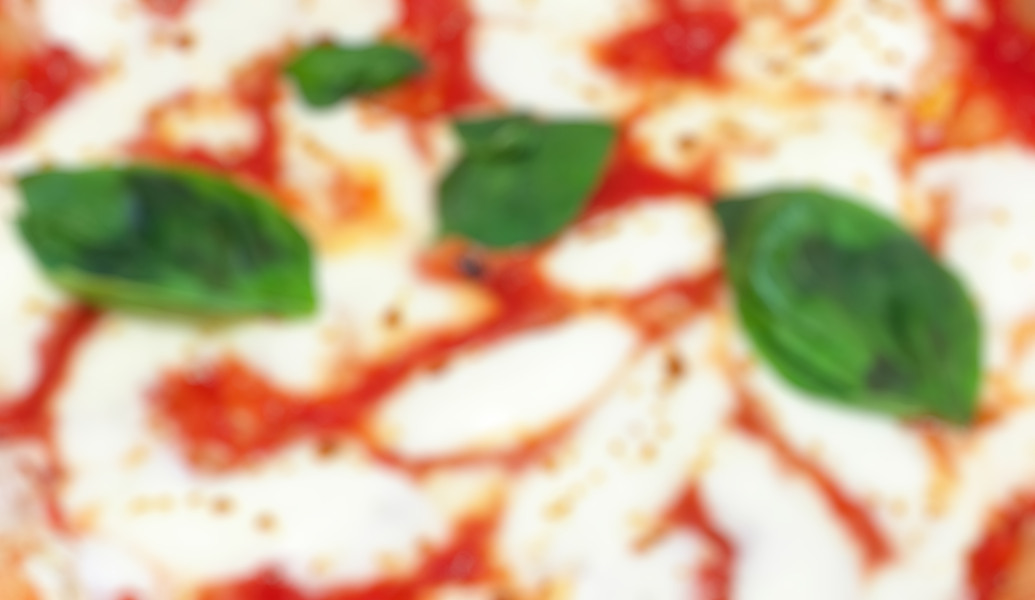
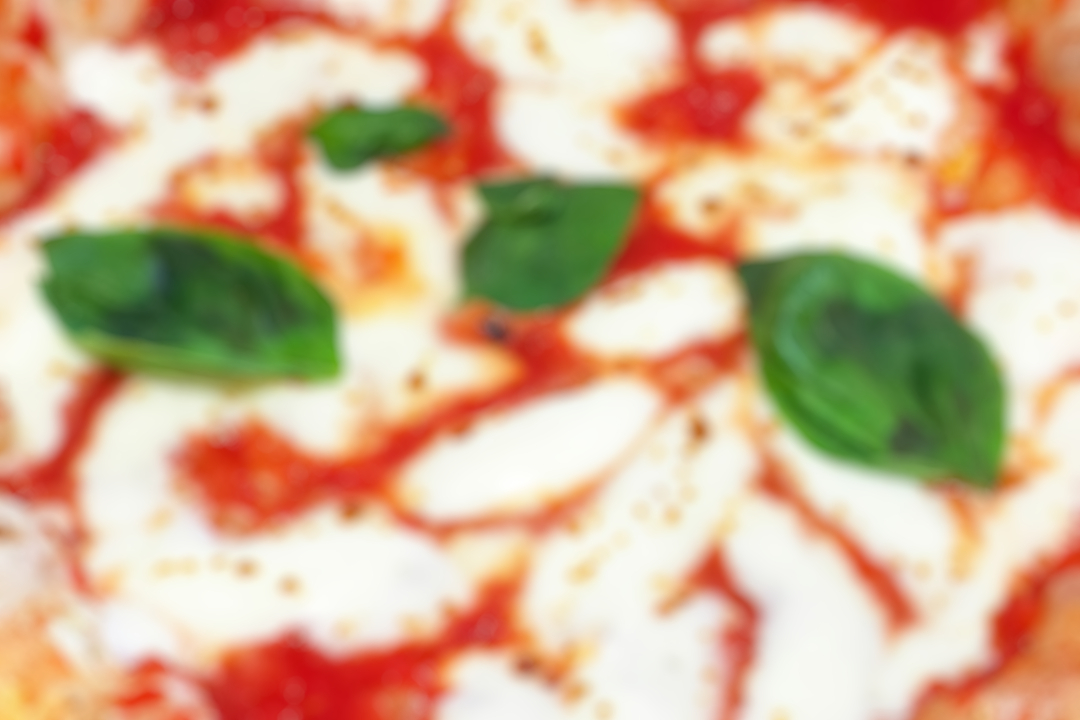
new Background

diff --git a/src/app/frontend/window/MainMenu2.java b/src/app/frontend/window/MainMenu2.java
@@ -3,6 +3,7 @@ package app.frontend.window;
 import java.awt.BorderLayout;
 import java.awt.Component;
 import java.awt.Font;
+import java.awt.event.ActionEvent;
 
 import javax.swing.BoxLayout;
 import javax.swing.JButton;
@@ -13,63 +14,105 @@ import javax.swing.SpringLayout;
 import app.frontend.components.BackgroundPanel;
 
 public class MainMenu2 extends StandardFrame {
-	private JLabel titleLabel;
+    private JLabel titleLabel;
+    private JButton chefButton;
+    private JButton cookButton;
+    private JButton cashButton;
+    private JButton waiterButton;
 
-	public MainMenu2() {
-		super("Main Menù");
-		getContentPane().setLayout(new BorderLayout(0, 0));
+    private int space = getContentPane().getWidth() / 25;
 
-		titleLabel = new JLabel("PIPPO PIZZA");
-		titleLabel.setFont(new Font("Maku", Font.BOLD | Font.ITALIC, 24));
-		titleLabel.setAlignmentX(Component.CENTER_ALIGNMENT);
-		BackgroundPanel backgroundPanel = new BackgroundPanel();
-		backgroundPanel.setLayout(new BoxLayout(backgroundPanel, BoxLayout.Y_AXIS));
+    public MainMenu2() {
+        super("Main Menù");
+        getContentPane().setLayout(new BorderLayout(0, 0));
 
-		getContentPane().add(backgroundPanel);
+        titleLabel = new JLabel("PIPPO PIZZA");
+        titleLabel.setFont(new Font("Maku", Font.BOLD | Font.ITALIC, space));
+        titleLabel.setAlignmentX(Component.CENTER_ALIGNMENT);
+        BackgroundPanel backgroundPanel = new BackgroundPanel();
+        backgroundPanel.setLayout(new BoxLayout(backgroundPanel, BoxLayout.Y_AXIS));
 
-		JPanel topPanel = new JPanel();
-		topPanel.setOpaque(false);
-		backgroundPanel.add(topPanel);
-		System.out.println(titleLabel.getHeight());
-		SpringLayout sl_topPanel = new SpringLayout();
-		topPanel.setLayout(sl_topPanel);
+        getContentPane().add(backgroundPanel);
 
-		JButton chefButton = new JButton("Chef");
-		sl_topPanel.putConstraint(SpringLayout.WEST, chefButton, 10, SpringLayout.WEST, topPanel);
-		sl_topPanel.putConstraint(SpringLayout.SOUTH, chefButton, 165, SpringLayout.NORTH, topPanel);
-		sl_topPanel.putConstraint(SpringLayout.EAST, chefButton, 338, SpringLayout.WEST, topPanel);
+        JPanel topPanel = new JPanel();
+        topPanel.setOpaque(false);
+        backgroundPanel.add(topPanel);
+        System.out.println(titleLabel.getHeight());
+        SpringLayout sl_topPanel = new SpringLayout();
+        topPanel.setLayout(sl_topPanel);
 
-		topPanel.add(chefButton);
+        chefButton = new JButton("Chef");
+        chefButton.setToolTipText("Click here for create and modify the Menu");
+        chefButton.addActionListener(this::actionPerformed);
+        cookButton = new JButton("Cook");
+        chefButton.setToolTipText("Click here for check orders to prepare");
+        chefButton.addActionListener(this::actionPerformed);
 
-		JButton cookButton = new JButton("Cook");
-		sl_topPanel.putConstraint(SpringLayout.NORTH, chefButton, 0, SpringLayout.NORTH, cookButton);
-		sl_topPanel.putConstraint(SpringLayout.NORTH, cookButton, 10, SpringLayout.NORTH, topPanel);
-		sl_topPanel.putConstraint(SpringLayout.WEST, cookButton, 362, SpringLayout.WEST, topPanel);
-		sl_topPanel.putConstraint(SpringLayout.SOUTH, cookButton, 165, SpringLayout.NORTH, topPanel);
-		sl_topPanel.putConstraint(SpringLayout.EAST, cookButton, 690, SpringLayout.WEST, topPanel);
-		topPanel.add(cookButton);
+        sl_topPanel.putConstraint(SpringLayout.WEST, chefButton, space, SpringLayout.WEST, topPanel);
+        sl_topPanel.putConstraint(SpringLayout.EAST, chefButton, (-space - getContentPane().getWidth()) / 2, SpringLayout.EAST, topPanel);
+        sl_topPanel.putConstraint(SpringLayout.NORTH, chefButton, space, SpringLayout.NORTH, topPanel);
+        sl_topPanel.putConstraint(SpringLayout.SOUTH, chefButton, 0, SpringLayout.SOUTH, topPanel);
 
-		backgroundPanel.add(titleLabel);
+        sl_topPanel.putConstraint(SpringLayout.EAST, cookButton, -space, SpringLayout.EAST, topPanel);
+        sl_topPanel.putConstraint(SpringLayout.NORTH, cookButton, space, SpringLayout.NORTH, topPanel);
+        sl_topPanel.putConstraint(SpringLayout.WEST, cookButton, (space + getContentPane().getWidth()) / 2, SpringLayout.WEST, topPanel);
+        sl_topPanel.putConstraint(SpringLayout.SOUTH, cookButton, 0, SpringLayout.SOUTH, topPanel);
 
-		JPanel downPanel = new JPanel();
-		downPanel.setOpaque(false);
-		backgroundPanel.add(downPanel);
-		SpringLayout sl_downPanel = new SpringLayout();
-		downPanel.setLayout(sl_downPanel);
+        topPanel.add(cookButton);
+        topPanel.add(chefButton);
 
-		JButton waiterButton = new JButton("Waiter");
-		sl_downPanel.putConstraint(SpringLayout.NORTH, waiterButton, 0, SpringLayout.NORTH, downPanel);
-		sl_downPanel.putConstraint(SpringLayout.WEST, waiterButton, 10, SpringLayout.WEST, downPanel);
-		sl_downPanel.putConstraint(SpringLayout.SOUTH, waiterButton, -10, SpringLayout.SOUTH, downPanel);
-		sl_downPanel.putConstraint(SpringLayout.EAST, waiterButton, 338, SpringLayout.WEST, downPanel);
-		downPanel.add(waiterButton);
 
-		JButton cashButton = new JButton("Cash");
-		sl_downPanel.putConstraint(SpringLayout.NORTH, cashButton, 0, SpringLayout.NORTH, downPanel);
-		sl_downPanel.putConstraint(SpringLayout.WEST, cashButton, 362, SpringLayout.WEST, downPanel);
-		sl_downPanel.putConstraint(SpringLayout.SOUTH, cashButton, -10, SpringLayout.SOUTH, downPanel);
-		sl_downPanel.putConstraint(SpringLayout.EAST, cashButton, 690, SpringLayout.WEST, downPanel);
-		downPanel.add(cashButton);
+        backgroundPanel.add(titleLabel);
 
-	}
+        JPanel downPanel = new JPanel();
+        downPanel.setOpaque(false);
+        backgroundPanel.add(downPanel);
+        SpringLayout sl_downPanel = new SpringLayout();
+        downPanel.setLayout(sl_downPanel);
+
+        cashButton = new JButton("Cash");
+        cashButton.setToolTipText("Click here for generate receipts");
+        cashButton.addActionListener(this::actionPerformed);
+        waiterButton = new JButton("Waiter");
+        waiterButton.setToolTipText("Click here for take orders and check orders state");
+        waiterButton.addActionListener(this::actionPerformed);
+
+        sl_downPanel.putConstraint(SpringLayout.NORTH, waiterButton, 0, SpringLayout.NORTH, downPanel);
+        sl_downPanel.putConstraint(SpringLayout.WEST, waiterButton, space, SpringLayout.WEST, downPanel);
+        sl_downPanel.putConstraint(SpringLayout.EAST, waiterButton, (-space - getContentPane().getWidth()) / 2, SpringLayout.EAST, downPanel);
+        sl_downPanel.putConstraint(SpringLayout.SOUTH, waiterButton, -space, SpringLayout.SOUTH, downPanel);
+
+        sl_downPanel.putConstraint(SpringLayout.EAST, cashButton, -space, SpringLayout.EAST, downPanel);
+        sl_downPanel.putConstraint(SpringLayout.NORTH, cashButton, 0, SpringLayout.NORTH, downPanel);
+        sl_downPanel.putConstraint(SpringLayout.WEST, cashButton, (space + getContentPane().getWidth()) / 2, SpringLayout.WEST, downPanel);
+        sl_downPanel.putConstraint(SpringLayout.SOUTH, cashButton, -space, SpringLayout.SOUTH, downPanel);
+
+
+        downPanel.add(cashButton);
+        downPanel.add(waiterButton);
+
+    }
+
+    public void actionPerformed(ActionEvent e) {
+
+        if (e.getSource().equals(waiterButton)) {
+            new WaiterFrame();
+        }
+
+        if (e.getSource().equals(chefButton)) {
+            new ChefFrame();
+
+        }
+
+        if (e.getSource().equals(cookButton)) {
+            new CookFrame();
+        }
+
+        if (e.getSource().equals(cashButton)) {
+            new CashFrame();
+
+        }
+        dispose();
+
+    }
 }

diff --git a/src/app/frontend/window/StandardFrame.java b/src/app/frontend/window/StandardFrame.java
@@ -2,14 +2,17 @@ package app.frontend.window;
 
 import javax.swing.*;
 import java.awt.*;
+import java.awt.event.ActionEvent;
 
-public class StandardFrame extends JFrame {
-    private final int WIDTH = 700;
-    private final int HEIGHT = 400;
+public abstract class StandardFrame extends JFrame {
+    private final int WIDTH = 1080;
+    private final int HEIGHT = 720;
     final Dimension dimension = new Dimension(WIDTH, HEIGHT);
-    public StandardFrame(String title){
+
+    public StandardFrame(String title) {
         super(title);
-        setMinimumSize(dimension);
+        setSize(dimension);
+        setResizable(false);
         setLocationRelativeTo(null);
         setDefaultCloseOperation(JFrame.EXIT_ON_CLOSE);
         setVisible(true);

diff --git a/src/app/frontend/components/BackMenuButton.java b/src/app/frontend/components/BackMenuButton.java
@@ -1,6 +1,7 @@
 package app.frontend.components;
 
 import app.frontend.window.MainMenu;
+import app.frontend.window.MainMenu2;
 
 import javax.swing.*;
 import java.awt.*;
@@ -16,7 +17,7 @@ public class BackMenuButton extends JButton {
         addActionListener(new ActionListener() {
             @Override
             public void actionPerformed(ActionEvent e) {
-                MainMenu f = new MainMenu();
+                MainMenu2 f = new MainMenu2();
                 f.setVisible(true);
                 frame.dispose();
             }

diff --git a/src/app/frontend/components/BackgroundPanel.java b/src/app/frontend/components/BackgroundPanel.java
@@ -19,7 +19,7 @@ public class BackgroundPanel extends JPanel {
 
 	public BackgroundPanel() {
 		img = Toolkit.getDefaultToolkit()
-				.createImage("/Users/armandocoppola/Documents/restaurant_manager/src/sfondoMargherita.jpg");
+				.createImage("/Users/armandocoppola/Documents/restaurant_manager/src/sfondoMargheritaSfocata.jpg");
 		loadImage(img);
 	}
 

diff --git a/src/app/frontend/window/MainMenu.java b/src/app/frontend/window/MainMenu.java
@@ -12,7 +12,7 @@ import javax.swing.JSeparator;
 import javax.swing.LayoutStyle;
 
 @SuppressWarnings("serial")
-public class MainMenu extends StandardFrame implements ActionListener {
+public class  MainMenu extends StandardFrame implements ActionListener {
 
 	private JButton btnWaiter;
 	private JButton btnChef;
